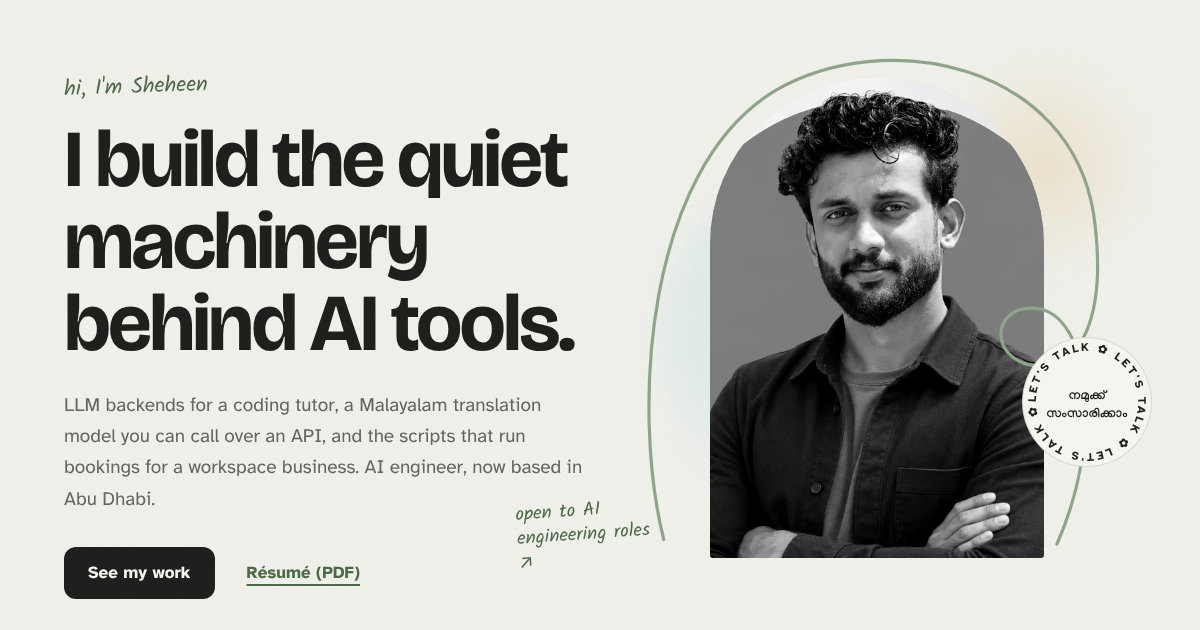
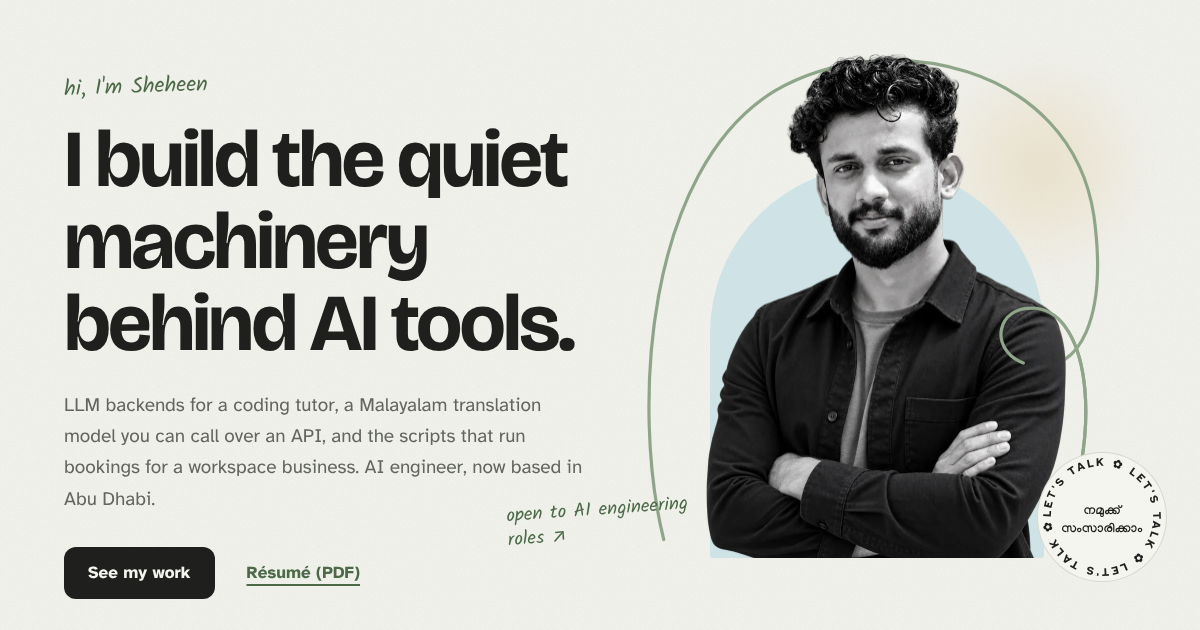
Use the black-and-white cutout portrait in the hero
Replace the greyed-out square photo with Sheheen's transparent cutout. The head now rises above a pale arch, and the hand-drawn loop is drawn twice: behind the portrait across the top, and in front over the right shoulder and arm. The talk badge moves to the lower right so that front stretch stays visible. Removes the portrait TODO and regenerates the OG image.

Claude-Session: https://claude.ai/code/session_01D4XFERj79gSzAsjU3gdS1P

Changed region(s): [[0.5858, 0.0905, 0.9867, 0.9048], [0.4317, 0.7841, 0.5858, 0.8746], [0.925, 0.8746, 0.9558, 0.9048]]

diff --git a/src/styles/site.css b/src/styles/site.css
@@ -445,14 +445,6 @@ a:hover {
   filter: blur(14px);
 }
 
-.hero__blob--water {
-  left: 4%;
-  top: 20%;
-  width: 82%;
-  height: 66%;
-  background: radial-gradient(circle at 40% 40%, var(--color-backwater), transparent 70%);
-}
-
 .hero__blob--sand {
   right: -4%;
   top: 2%;
@@ -461,23 +453,24 @@ a:hover {
   background: radial-gradient(circle, var(--color-sand), transparent 70%);
 }
 
+/* A pale arch sits behind the cutout; the head rises above its top edge. */
 .hero__arch {
   position: absolute;
   left: 14.8%;
-  top: 6.5%;
+  top: 22%;
   width: 66.7%;
-  height: 83.9%;
-  overflow: hidden;
+  height: 68.4%;
   border-radius: var(--radius-arch);
-  background: var(--color-rule);
+  background: var(--color-backwater);
 }
 
-.hero__arch img {
-  width: 100%;
-  height: 100%;
-  object-fit: cover;
-  object-position: 50% 30%;
-  filter: grayscale(1) contrast(1.08);
+.hero__portrait {
+  position: absolute;
+  left: 14%;
+  bottom: 9.6%;
+  width: 72%;
+  height: auto;
+  z-index: 2;
 }
 
 .hero__loop {
@@ -486,10 +479,22 @@ a:hover {
   width: 100%;
   height: 100%;
   pointer-events: none;
+  z-index: 1;
+}
+
+/* Only the stretch from the right shoulder down the arm is drawn over the portrait. */
+.hero__loop--front {
+  z-index: 3;
+}
+
+.hero__loop--front path {
+  stroke-dasharray: 0.3 1;
+  stroke-dashoffset: -0.7;
 }
 
 .hero__note {
   position: absolute;
+  z-index: 4;
   left: -26%;
   top: 80%;
   max-width: 11.5rem;
@@ -500,15 +505,13 @@ a:hover {
   transform: rotate(-4deg);
 }
 
-.hero__todo {
-  position: absolute;
-  left: 14.8%;
-  top: 92%;
-}
-
 @media (max-width: 959px) {
   .hero__art {
     margin-bottom: var(--space-7);
+  }
+
+  .talk-badge {
+    right: -2%;
   }
 
   .hero__note {
@@ -518,21 +521,14 @@ a:hover {
     font-size: var(--text-sm);
     transform: rotate(-2deg);
   }
-
-  .hero__todo {
-    left: auto;
-    right: 0;
-    top: 100%;
-    max-width: 50%;
-    text-align: right;
-  }
 }
 
 /* ---------- Talk badge ---------- */
 .talk-badge {
   position: absolute;
-  right: -3%;
-  top: 52%;
+  z-index: 4;
+  right: -6%;
+  top: 72%;
   width: var(--badge-size);
   aspect-ratio: 1;
   border-radius: 50%;
@@ -1162,6 +1158,12 @@ a:hover {
     }
   }
 
+  @keyframes fade-in {
+    from {
+      opacity: 0;
+    }
+  }
+
   @keyframes spin {
     to {
       transform: rotate(360deg);
@@ -1192,9 +1194,13 @@ a:hover {
     animation-delay: 120ms;
   }
 
-  .hero__loop path {
+  .hero__loop--back path {
     stroke-dasharray: 1;
     animation: draw var(--duration-draw) var(--ease-out) 450ms both;
+  }
+
+  .hero__loop--front {
+    animation: fade-in 300ms var(--ease-out) 1500ms both;
   }
 
   .talk-badge__ring {

diff --git a/src/components/Hero.tsx b/src/components/Hero.tsx
@@ -1,9 +1,8 @@
 import { hero, profile } from '../content';
 import { ButtonLink } from './ui/button';
 import { HandLine } from './ui/HandLine';
-import { Todo } from './ui/Todo';
 import { TalkBadge } from './TalkBadge';
-import portrait from '../sheheen.webp';
+import portrait from '../assets/portrait-cutout.webp';
 
 export function Hero() {
   return (
@@ -24,25 +23,23 @@ export function Hero() {
 
       <div className="hero__art">
         <div className="hero__blob hero__blob--sand" aria-hidden="true" />
-        <div className="hero__blob hero__blob--water" aria-hidden="true" />
-        <figure className="hero__arch">
-          {/* TODO(Sheheen): replace with a black-and-white cutout (transparent PNG/WebP) so the
-              line can loop in front of and behind you. Until then the photo is greyed with CSS. */}
-          <img
-            src={portrait}
-            alt={`Portrait of ${profile.name}`}
-            width={720}
-            height={720}
-            fetchPriority="high"
-            decoding="async"
-          />
-        </figure>
-        <HandLine variant="portrait-loop" className="hero__loop" />
+        <div className="hero__arch" aria-hidden="true" />
+        {/* The loop is drawn twice: behind the portrait, then the shoulder-and-arm stretch in front. */}
+        <HandLine variant="portrait-loop" className="hero__loop hero__loop--back" />
+        <img
+          className="hero__portrait"
+          src={portrait}
+          alt={`Portrait of ${profile.name}`}
+          width={720}
+          height={1040}
+          fetchPriority="high"
+          decoding="async"
+        />
+        <HandLine variant="portrait-loop" className="hero__loop hero__loop--front" />
         <p className="hero__note">
           {hero.note} <span aria-hidden="true">↗</span>
         </p>
         <TalkBadge />
-        <Todo className="hero__todo">swap in a black-and-white cutout portrait</Todo>
       </div>
     </section>
   );

diff --git a/README.md b/README.md
@@ -198,7 +198,7 @@ The Express API must be deployed separately to a Node.js host such as Render or 
 
 All text lives in [`src/content.ts`](src/content.ts). Edit it there rather than in the components. Items with a `todo` field render a visible "TODO:" note on the page until they are filled in. Only add real projects, roles and numbers.
 
-To replace the portrait, swap `src/sheheen.webp` (a black-and-white cutout with a transparent background works best).
+The hero portrait is `src/assets/portrait-cutout.webp`: a black-and-white cutout with a transparent background, 720 × 1040 px. Replace it with another cutout of the same proportions.
 
 ## Backend notes
 
